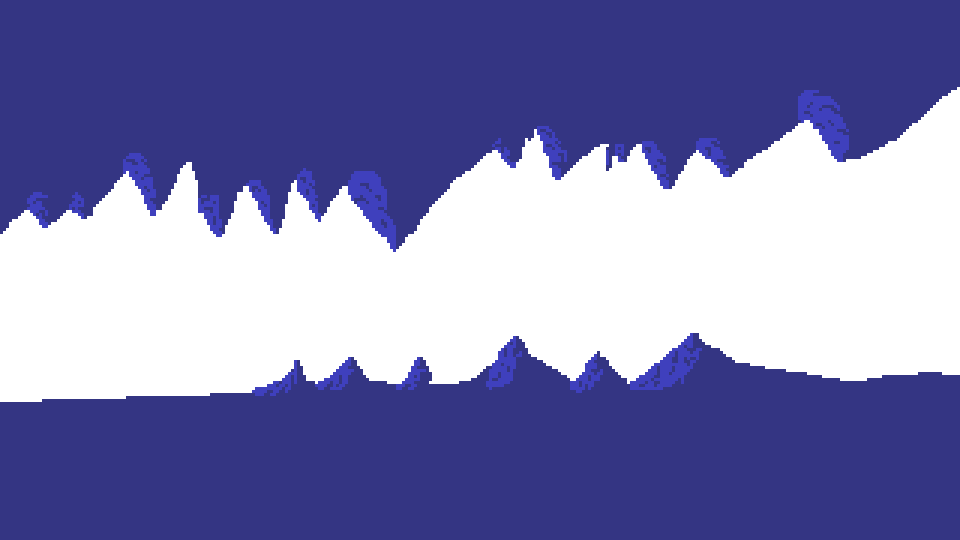
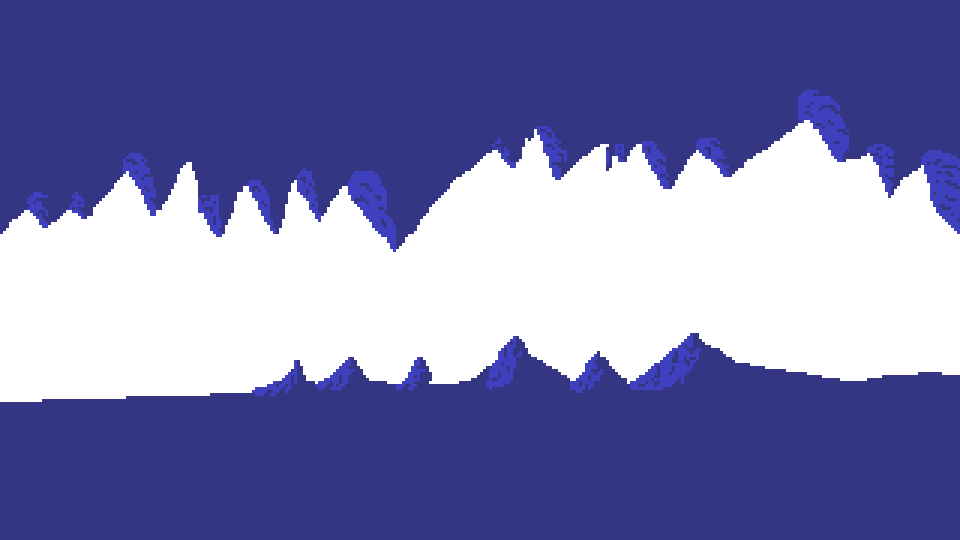
Fixed bug with Background Scrolling

Changed region(s): [[0.9062, 0.1481, 1.0, 0.4444]]

diff --git a/Wheats and Wands/Levels/Cave.cs b/Wheats and Wands/Levels/Cave.cs
@@ -35,11 +35,11 @@ namespace Wheats_and_Wands.Levels
                 {
                     Layer = 0.11f
                 },
-                new ScrollBackground(secondLayer, _farmer, 0f)
+                new ScrollBackground(secondLayer, _farmer, 50f)
                 {
                     Layer = 0.12f
                 },
-                new ScrollBackground(thirdLayer, _farmer, 0f)
+                new ScrollBackground(thirdLayer, _farmer, 20f)
                 {
                     Layer = 0.13f
                 },
@@ -71,8 +71,17 @@ namespace Wheats_and_Wands.Levels
 
         public override void Update(GameTime gameTime)
         {
+            if (_farmer.Position.X < _farmer.prevPosition.X)
+                _farmer.HorizontalVelocity.X = -3f;
+            else if (_farmer.Position.X > _farmer.prevPosition.X)
+                _farmer.HorizontalVelocity.X = 3f;
+            else
+                _farmer.HorizontalVelocity.X = 0f;
+
             _farmer.Update(gameTime);
             _farmer._groundY = _farmerStartPos.Y;
+
+
 
             if (_farmer.Position.X + _farmer._sprite.Width > WheatandWandsGame.WINDOW_WIDTH - 10)
             {

diff --git a/Wheats and Wands/Entities/Farmer.cs b/Wheats and Wands/Entities/Farmer.cs
@@ -102,14 +102,14 @@ namespace Wheats_and_Wands.Entities
 
         public void Update(GameTime gameTime)
         {
-            /*
-            if (Position.X < prevPosition.X)
-                HorizontalVelocity.X = -3f;
-            else if (Position.X > prevPosition.X)
-                HorizontalVelocity.X = 3f;
-            else
-                HorizontalVelocity.X = 0f;
-            */
+
+            //if (Position.X < prevPosition.X)
+            //    HorizontalVelocity.X = -3f;
+            //else if (Position.X > prevPosition.X)
+            //    HorizontalVelocity.X = 3f;
+            //else
+            //    HorizontalVelocity.X = 0f;
+
 
             if (Position.Y  < _groundY)
             {

diff --git a/Wheats and Wands/Graphics/ScrollBackground.cs b/Wheats and Wands/Graphics/ScrollBackground.cs
@@ -69,7 +69,7 @@ namespace Wheats_and_Wands.Graphics
             _speed = (float)(_scrollingSpeed * gameTime.ElapsedGameTime.TotalSeconds);
 
             if (!_constantSpeed || _farmer.HorizontalVelocity.X != 0) //If players moves, the background will move faster
-                _speed += _farmer.HorizontalVelocity.X;
+                _speed *= _farmer.HorizontalVelocity.X;
 
             foreach (var spriteLayer in _spritesLayers) //background moves opposite of player
                 spriteLayer.Position.X -= _speed;
